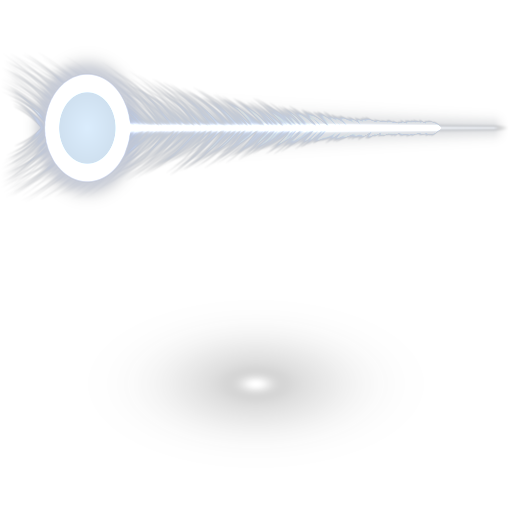
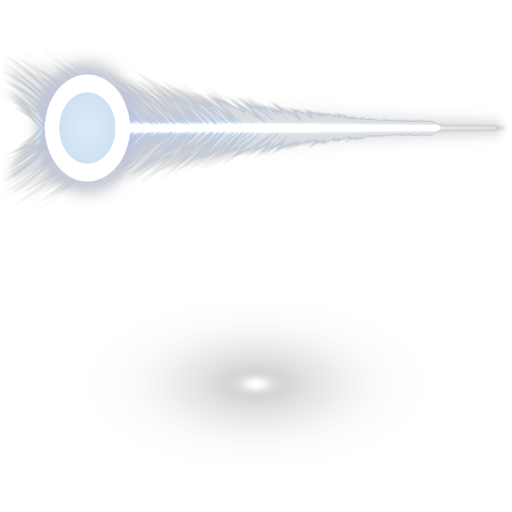
Verse Draconia peacock v5: crisp tail eyespots again, finer P1 barbs, and ruins at the edges
feathers::Fan gains slim (narrower feathers, egg-shaped eyespots, darker gaps)
and a larger white eyespot core; the feather sheet has finer, denser barbs and
P1's feathers burn dimmer; the ruined walls rise into the frame's top corners.

diff --git a/crates/verse/examples/film/peacock.rs b/crates/verse/examples/film/peacock.rs
@@ -44,7 +44,7 @@ const TAIL_RADIUS: f32 = 7.6;
 
 /// The void's color and the courtyard's night.
 const VOID: [f32; 3] = [0.004, 0.008, 0.022];
-const NIGHT: [f32; 3] = [0.006, 0.014, 0.02];
+const NIGHT: [f32; 3] = [0.018, 0.045, 0.058];
 
 pub struct Set {
     part: Part,
@@ -306,7 +306,8 @@ impl Set {
                         feathers: 175,
                         droop: 0.16,
                         luminance: [1.6, 1.85, 2.3],
-                        vane: 0.42,
+                        vane: 0.3,
+                        slim: 0.7,
                         open,
                         time: t,
                     }
@@ -337,7 +338,7 @@ impl Set {
                     sprites.push(feathers::dot(
                         TAIL_CENTER + dir * TAIL_RADIUS * 0.62 - Vec3::Z * 0.4,
                         TAIL_RADIUS * 0.55,
-                        [0.1, 0.14, 0.22],
+                        [0.04, 0.055, 0.09],
                         1.0,
                     ));
                 }
@@ -393,13 +394,13 @@ impl Set {
             // Each shaft bows the same way, so the feathers sweep in arcs.
             let side = Vec3::new(-dir.y, dir.x, 0.0);
             let bend = (eye + base) * 0.5 + side * length * 0.3;
-            let lum = [3.4, 3.8, 4.4];
+            let lum = [1.35, 1.55, 1.9];
             let (head, ribbons) = feathers::curved(eye, bend, base, length * 0.8, lum);
             sprites.push(head);
             ribbons_out.extend(ribbons);
             sprites.push(feathers::dot(
                 eye,
-                length * 0.08,
+                length * 0.05,
                 lum.map(|c| c * 0.15),
                 1.0,
             ));
@@ -429,7 +430,10 @@ impl Set {
         neon.fog_start = 300.0;
         neon.fog_end = 900.0;
         neon.vignette = 0.3;
-        neon.bloom = 0.3;
+        neon.bloom = match self.part {
+            Part::Feathers => 0.2,
+            Part::Tail => 0.22,
+        };
         neon.grade.exposure = self.flash(t);
         neon.grade.saturation = 0.92;
         neon.grade.contrast = 1.25;
@@ -615,7 +619,7 @@ fn ruins(out: &mut Vec<LitVertex>) {
             let course = 0.45;
             let mut layer = 0;
             let mut y = 0.0;
-            while y < 9.0 {
+            while y < 11.0 {
                 let mut x = x0 + if layer % 2 == 0 { 0.0 } else { 0.4 };
                 while x < x1 {
                     n += 1;
@@ -639,14 +643,14 @@ fn ruins(out: &mut Vec<LitVertex>) {
             }
         };
     // Left: a tall broken wall stepping down toward the middle.
-    wall(out, -14.0, -3.5, 0.2, &|x: f32| {
-        let k = ((x + 3.5) / -5.0).clamp(0.0, 1.0);
-        0.6 + 6.5 * k.powf(0.9) + 0.9 * ((x * 2.3).sin() * (x * 0.9).cos())
+    wall(out, -16.0, -5.6, -3.0, &|x: f32| {
+        let k = ((x + 5.6) / -4.0).clamp(0.0, 1.0);
+        1.0 + 9.0 * k.powf(0.8) + 0.9 * ((x * 2.3).sin() * (x * 0.9).cos())
     });
     // Right: lower, more broken.
-    wall(out, 3.8, 14.0, -0.2, &|x: f32| {
-        let k = ((x - 3.8) / 5.0).clamp(0.0, 1.0);
-        0.5 + 4.8 * k.powf(1.0) + 0.8 * ((x * 1.7).sin() * (x * 1.1).cos())
+    wall(out, 5.8, 16.0, -3.4, &|x: f32| {
+        let k = ((x - 5.8) / 4.0).clamp(0.0, 1.0);
+        0.8 + 7.5 * k.powf(0.9) + 0.8 * ((x * 1.7).sin() * (x * 1.1).cos())
     });
     // Rubble.
     for i in 0..70u32 {

diff --git a/crates/verse-core/src/fx/feathers.rs b/crates/verse-core/src/fx/feathers.rs
@@ -130,7 +130,7 @@ pub fn curved(
                 priority: 8,
             },
             Ribbon {
-                points: points(width * 0.6, 0.25),
+                points: points(width * 0.5, 0.12),
                 layer,
                 rect: vane_rect,
                 priority: 7,
@@ -211,6 +211,9 @@ pub struct Fan {
     /// a dense fan from washing into one sheet of light, so its eyespots
     /// read as rows of bright points.
     pub vane: f32,
+    /// The feathers' width as a share of the sheet's, 0 to 1: narrower
+    /// feathers have egg-shaped eyespots and leave darker gaps between.
+    pub slim: f32,
     /// How far the fan has opened, 0 folded to 1 fully fanned.
     pub open: f32,
     /// Seconds, for a slow shimmer.
@@ -249,18 +252,24 @@ impl Fan {
                 let eye = self.center + dir * r * (0.35 + 0.65 * open);
                 let lum = self.luminance.map(|c| c * shimmer * (1.0 - 0.2 * k));
                 let vane = self.vane.clamp(0.0, 1.0);
-                out.push(feather(
+                let mut quill = feather(
                     eye,
                     -dir,
                     length * (0.35 + 0.65 * open),
                     lum.map(|c| c * vane),
                     1.0,
-                ));
+                );
+                let slim = self.slim.clamp(0.1, 1.0);
+                // Keep the sprite's length while narrowing it: the tail
+                // grows by what the head's half width gives up.
+                quill.tail += quill.tail.normalize_or_zero() * 2.0 * quill.half * (1.0 - slim);
+                quill.half *= slim;
+                out.push(quill);
                 // The eyespot burns brighter than its vane.
                 out.push(dot(
                     eye,
-                    length * 0.1,
-                    lum.map(|c| c * (1.0 - vane) * 3.0),
+                    length * 0.13 * slim,
+                    lum.map(|c| c * (1.0 - vane) * 2.6),
                     1.0,
                 ));
             }
@@ -287,6 +296,7 @@ mod tests {
             droop: 0.1,
             luminance: [4.0; 3],
             vane: 0.5,
+            slim: 1.0,
             open: 1.0,
             time: 0.0,
         };

diff --git a/scripts/blender/fx/feather.py b/scripts/blender/fx/feather.py
@@ -85,7 +85,7 @@ def feather():
         return 0.15 * head * (0.1 + 0.9 * tail)
 
     rng = np.random.default_rng(7)
-    barbs = 320
+    barbs = 520
     for side in (-1.0, 1.0):
         for i in range(barbs):
             s0 = 0.08 + 0.78 * (i + rng.uniform(0, 1)) / barbs
@@ -99,8 +99,8 @@ def feather():
             av = side * reach * np.sin(sweep) * t * (1 - 0.2 * bend)
             qv = av * 2.0 * ASPECT
             fade = (1.0 - t) ** 0.8 * (0.5 + 0.5 * t)
-            col = np.array([0.7, 0.8, 1.0])[None, :] * (0.11 * fade)[:, None]
-            splat(barbs_img, sv, qv, col, 0.6)
+            col = np.array([0.7, 0.8, 1.0])[None, :] * (0.12 * fade)[:, None]
+            splat(barbs_img, sv, qv, col, 0.42)
 
     e = np.sqrt(((s - cs) / a) ** 2 + (across / b) ** 2)
     # Barbs pass behind the eyespot, so the disc stays clean.

diff --git a/docs/verse/draconia/parity.md b/docs/verse/draconia/parity.md
@@ -73,3 +73,24 @@ top), and `~/Downloads/draconia-peacock-progress.png` (one row per version).
   - her outline is still Alice's coat;
   - P1's barbs are sparser than the reference's;
   - the walls and fires at the frame edges read weaker than the reference's.
+
+### v5, 2026-10-13
+
+- **Gaps fixed:**
+  - v3's hazy tail eyespots (a regression). `feathers::Fan` gains `slim`:
+    narrower feathers with egg-shaped eyespots and darker gaps (0.7 here).
+    Vanes burn at 0.3 of the light, and each eyespot gets a larger white core,
+    so the rows read as crisp white eyes again, with v3's silhouette and
+    framing.
+  - P1 was blobby and overexposed. The feather sheet has 520 finer barbs a
+    side, feathers burn at about two-thirds the light, and the lower vane's
+    ribbon is dimmer, so fine barbs show with dark between.
+  - The edges: the walls stand back at the fan's sides and rise into the
+    top corners against a teal night, occluding the fan's outer feathers as
+    the reference's ruins do.
+- **Still open:**
+  - her hair doesn't fly (the face agent is adding hair joint chains);
+  - her outline is still Alice's coat;
+  - the fires at the edges are soft orange blobs, not the reference's crisp
+    flames;
+  - the P1 sheet is 512 px, so close-ups soften.
